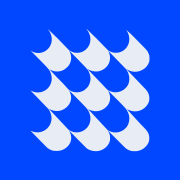
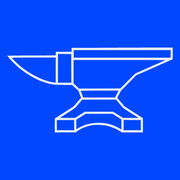
Take the mark from a star to an anvil
The drawing changes; the colour does not. The anvil is inlined as a single
path at `currentColor`, the same way the star was, so it still recolours
across the three grounds the masthead crosses, and the favicons stay in the
signal blue. Only the shape is new.

It is a different shape in one way that matters everywhere. The star's
bounding box was 1402x1122, a shade under 5:4; the anvil's is 1021x524, a
shade under 2:1. Everything that reserved space for the mark sized it by
height and let the width follow, so at a matched height the anvil arrived
half again as wide as the thing it replaced — 117px of it in a masthead row
where the star took 75. That is not a mark any more, it is furniture. So the
mark is set at 0.65 of the height the old one could afford, which is the
height at which it occupies the width the old one did, and the same factor is
applied at every other size: the brand mark on the legal pages, the closing
panel's lockup, the loading screen, the gate page and the social card.

It also leaves the hero. The lockup under the glass pill used to be mark and
wordmark together, but the masthead sits directly above it and already
carries the anvil, so the screen was showing the same drawing twice inside
one viewport height. The lockup is the wordmark alone now, and the narrow
step that used to fit three terms into 320px fits one.

FAVICONS, IN TWO WEIGHTS. The star was a dense solid glyph and the anvil is
[…]

Changed region(s): [[0.0278, 0.1667, 0.9722, 0.8611]]

diff --git a/scripts/social-card.html b/scripts/social-card.html
@@ -94,8 +94,12 @@
       }
 
       .lockup svg {
+        /* The anvil's own ratio (1021x524), so the mark is not squashed to the
+           old drawing's near-square box. 34px is the width the old mark took,
+           which is the footprint this lockup was composed around. */
         width: 34px;
-        height: 27px;
+        height: auto;
+        aspect-ratio: 1021.1 / 524;
         color: var(--blue);
       }
 
@@ -171,8 +175,10 @@
   <body>
     <div class="copy">
       <div class="lockup">
-        <svg viewBox="0 0 1402 1122" aria-hidden="true">
-          <path fill="currentColor" d="M627 50c16 24 19 29 25 45q12 38 0 75c-11 30-37 56-67 66q-34 11-69 0-26-10-38-24A3946 3946 0 0 0 315 49l6 9c25 34 33 75 20 111a108 108 0 0 1-157 59l-8-5 12 12 71 72c63 64 65 67 75 87 22 46 15 96-18 132a115 115 0 0 1-99 33 154 154 0 0 1-41-14l69 71 76 79q18 26 23 57a114 114 0 0 1-163 118c-9-6-15-11 56 61l54 55c20 21 30 29 49 37 15 7 25 8 47 8a117 117 0 0 0 83-32q44-42 30-100c-3-11-5-15-11-26l-3-7 72 74 71 71c24 17 57 25 89 21 46-7 85-40 96-80 2-7 2-11 2-24 0-15 0-17-2-26q-4-16-13-29l-4-8 71 71c38 39 73 73 77 76 9 7 26 15 38 18 10 2 12 3 31 3s21-1 30-3q35-9 56-31 34-31 32-75-1-30-21-56c-6-9-10-13-51-55L951 694c9 5 25 12 37 15a119 119 0 0 0 140-72q6-19 4-38-3-28-17-48c-7-11-11-15-45-50l-64-67-60-63 7 4 15 8c45 21 97 11 134-23q21-21 30-50c2-10 2-38 0-48l-12-29c-9-14-10-16-124-131l-50-46q36 54 20 109c-6 22-23 45-43 58a104 104 0 0 1-59 18c-22 0-38-4-58-16q-10-6-15-13A5108 5108 0 0 0 629 50l-3-2zm-70 244c70 71 76 78 85 94 12 22 19 50 16 73-2 18-10 39-19 52-6 8-22 23-29 28-32 21-71 24-106 9-14-6-21-11-31-23a1385 1385 0 0 0-80-84l-66-70a115 115 0 0 0 109 9c17-8 38-25 49-41a107 107 0 0 0 2-116l-1-3zm285-27 103 106c7 10 18 30 20 40q12 39 1 73c-9 27-32 51-59 63-22 10-50 13-73 7-19-5-37-14-44-22-4-5-81-86-117-122l-31-32-10-11 7 5c22 14 52 20 78 17 17-2 37-10 52-21 15-10 30-28 37-43 14-30 13-67-3-97l-4-7 9 9zM581 639c51 52 57 59 67 82q16 39 7 77a111 111 0 0 1-157 72c-12-6-15-8-25-19l-29-31-121-129q37 23 79 18c38-4 76-32 92-67 13-27 11-60-3-89l-6-11 26 26zm301-12c63 64 65 66 76 90a117 117 0 0 1 2 104 112 112 0 0 1-157 46q-9-5-13-11L638 693a119 119 0 0 0 167-42c17-30 15-71-4-102l-3-6 13 13z" />
+        <svg viewBox="115.9 379 1021.1 524" aria-hidden="true">
+          <g transform="translate(0,1254) scale(0.1,-0.1)" fill="currentColor">
+            <path d="M7680 8739 c-976 -3 -1949 -7 -2162 -8 l-388 -1 0 -120 0 -120 -487 -2 -488 -3 -3 -106 -3 -106 -352 -6 c-194 -4 -725 -8 -1182 -8 -456 -1 -971 -4 -1143 -8 l-313 -6 87 -110 c125 -157 499 -527 674 -667 655 -522 1340 -864 1969 -982 212 -40 314 -46 798 -46 l473 0 194 -181 193 -180 62 -157 c33 -86 70 -183 81 -215 l20 -59 -124 -141 c-68 -78 -170 -197 -227 -265 -102 -121 -107 -125 -271 -230 -159 -101 -426 -273 -818 -526 l-175 -113 -3 -430 -2 -430 650 3 651 3 37 29 c213 166 472 291 747 361 171 43 304 61 510 68 409 13 780 -63 1153 -238 104 -49 156 -78 313 -175 l86 -54 647 0 646 0 0 443 0 442 -73 47 c-39 25 -236 151 -437 278 -201 128 -425 271 -499 319 l-134 86 -206 244 c-113 134 -212 251 -219 262 -15 20 6 66 151 333 l64 118 470 477 470 476 134 59 c248 108 1130 497 1624 716 l490 216 3 362 2 362 -957 -2 c-527 -1 -1757 -5 -2733 -9z m3558 -381 l-3 -233 -2985 0 -2985 0 -3 233 -2 232 2990 0 2990 0 -2 -232z m-6130 -895 l2 -883 -410 0 -410 0 0 885 0 885 408 -2 407 -3 3 -882z m-958 -109 l0 -776 -27 6 c-16 3 -64 10 -108 16 -121 17 -384 83 -531 134 -438 150 -906 406 -1339 729 -231 173 -401 325 -588 525 l-118 127 153 5 c84 3 694 7 1356 8 l1202 2 0 -776z m6758 620 c-7 -6 -230 -108 -393 -179 -223 -97 -786 -346 -1315 -581 l-145 -65 -463 -462 -462 -462 -1265 -3 -1265 -4 -32 27 c-18 15 -97 88 -175 162 l-143 135 0 719 0 719 2832 0 c1557 0 2829 -3 2826 -6z m-2890 -1897 c-2 -7 -50 -101 -108 -210 l-105 -197 -980 0 -980 0 -75 202 c-41 110 -76 205 -78 209 -2 5 509 9 1163 9 941 0 1166 -2 1163 -13z m71 -801 l216 -257 275 -177 c151 -98 359 -231 463 -296 103 -65 187 -122 187 -126 0 -5 -211 -9 -469 -9 l-469 0 -297 189 -298 190 -875 0 -874 0 -302 -189 -301 -190 -360 0 c-198 -1 -406 2 -462 5 l-101 7 56 37 c31 20 185 119 342 220 157 100 338 217 404 259 118 75 119 77 320 310 110 129 211 246 222 260 l22 26 1042 -1 1042 -1 217 -257z m-162 -789 l272 -172 1 -307 c0 -170 -4 -308 -8 -308 -4 0 -12 4 -18 9 -21 22 -248 142 -350 187 -262 114 -482 171 -764 199 -559 56 -1114 -63 -1556 -331 -40 -24 -75 -44 -78 -44 -3 0 -6 130 -6 289 l0 289 188 118 c103 65 232 146 287 181 l100 63 830 0 830 0 272 -173z m-2639 -525 l2 -312 -532 2 -533 3 -3 300 c-1 165 0 305 3 312 3 11 113 13 532 11 l528 -3 3 -313z m4107 3 l0 -310 -527 -3 -528 -2 0 315 0 315 528 -2 527 -3 0 -310z" />
+          </g>
         </svg>
         <span>Florian Beermann &amp; Partners</span>
       </div>

diff --git a/src/components/BrandMark.tsx b/src/components/BrandMark.tsx
@@ -1,0 +1,20 @@
+/* The mark: an anvil, inlined as a single path so it takes its colour from
+   `currentColor` — the masthead crosses three grounds and the mark changes
+   with them. The path is the artwork's own coordinate space; the `viewBox` is
+   its tight bounding box, so the element's box is the drawing and nothing
+   else. Anything that reserves space for it reads the ratio from here. */
+export function BrandMark({ className }: { className?: string }) {
+  return (
+    <svg
+      className={className}
+      viewBox="115.9 379 1021.1 524"
+      xmlns="http://www.w3.org/2000/svg"
+      aria-hidden="true"
+      focusable="false"
+    >
+      <g transform="translate(0,1254) scale(0.1,-0.1)" fill="currentColor">
+        <path d="M7680 8739 c-976 -3 -1949 -7 -2162 -8 l-388 -1 0 -120 0 -120 -487 -2 -488 -3 -3 -106 -3 -106 -352 -6 c-194 -4 -725 -8 -1182 -8 -456 -1 -971 -4 -1143 -8 l-313 -6 87 -110 c125 -157 499 -527 674 -667 655 -522 1340 -864 1969 -982 212 -40 314 -46 798 -46 l473 0 194 -181 193 -180 62 -157 c33 -86 70 -183 81 -215 l20 -59 -124 -141 c-68 -78 -170 -197 -227 -265 -102 -121 -107 -125 -271 -230 -159 -101 -426 -273 -818 -526 l-175 -113 -3 -430 -2 -430 650 3 651 3 37 29 c213 166 472 291 747 361 171 43 304 61 510 68 409 13 780 -63 1153 -238 104 -49 156 -78 313 -175 l86 -54 647 0 646 0 0 443 0 442 -73 47 c-39 25 -236 151 -437 278 -201 128 -425 271 -499 319 l-134 86 -206 244 c-113 134 -212 251 -219 262 -15 20 6 66 151 333 l64 118 470 477 470 476 134 59 c248 108 1130 497 1624 716 l490 216 3 362 2 362 -957 -2 c-527 -1 -1757 -5 -2733 -9z m3558 -381 l-3 -233 -2985 0 -2985 0 -3 233 -2 232 2990 0 2990 0 -2 -232z m-6130 -895 l2 -883 -410 0 -410 0 0 885 0 885 408 -2 407 -3 3 -882z m-958 -109 l0 -776 -27 6 c-16 3 -64 10 -108 16 -121 17 -384 83 -531 134 -438 150 -906 406 -1339 729 -231 173 -401 325 -588 525 l-118 127 153 5 c84 3 694 7 1356 8 l1202 2 0 -776z m6758 620 c-7 -6 -230 -108 -393 -179 -223 -97 -786 -346 -1315 -581 l-145 -65 -463 -462 -462 -462 -1265 -3 -1265 -4 -32 27 c-18 15 -97 88 -175 162 l-143 135 0 719 0 719 2832 0 c1557 0 2829 -3 2826 -6z m-2890 -1897 c-2 -7 -50 -101 -108 -210 l-105 -197 -980 0 -980 0 -75 202 c-41 110 -76 205 -78 209 -2 5 509 9 1163 9 941 0 1166 -2 1163 -13z m71 -801 l216 -257 275 -177 c151 -98 359 -231 463 -296 103 -65 187 -122 187 -126 0 -5 -211 -9 -469 -9 l-469 0 -297 189 -298 190 -875 0 -874 0 -302 -189 -301 -190 -360 0 c-198 -1 -406 2 -462 5 l-101 7 56 37 c31 20 185 119 342 220 157 100 338 217 404 259 118 75 119 77 320 310 110 129 211 246 222 260 l22 26 1042 -1 1042 -1 217 -257z m-162 -789 l272 -172 1 -307 c0 -170 -4 -308 -8 -308 -4 0 -12 4 -18 9 -21 22 -248 142 -350 187 -262 114 -482 171 -764 199 -559 56 -1114 -63 -1556 -331 -40 -24 -75 -44 -78 -44 -3 0 -6 130 -6 289 l0 289 188 118 c103 65 232 146 287 181 l100 63 830 0 830 0 272 -173z m-2639 -525 l2 -312 -532 2 -533 3 -3 300 c-1 165 0 305 3 312 3 11 113 13 532 11 l528 -3 3 -313z m4107 3 l0 -310 -527 -3 -528 -2 0 315 0 315 528 -2 527 -3 0 -310z" />
+      </g>
+    </svg>
+  );
+}

diff --git a/src/pages/hero.css b/src/pages/hero.css
@@ -294,10 +294,15 @@
 }
 
 /* ── The brand lockup ─────────────────────────────────────────────────────
-   Mark and wordmark, centred under the glass pill. Set in Nippo, which appears
+   The wordmark, centred under the glass pill. Set in Nippo, which appears
    nowhere else on the site — the wordmark is a piece of identity rather than
    part of the type system, and giving it its own face is what keeps it from
-   reading as a heading. */
+   reading as a heading.
+
+   The mark used to sit to its left. It is gone from here: the masthead is
+   directly above this and already carries the anvil, so the screen was showing
+   the same drawing twice inside one viewport height. Still a flex row, which
+   costs nothing and keeps the centring honest if anything joins it again. */
 .hero-lockup {
   position: absolute;
   top: calc(var(--masthead-space) + clamp(1.25rem, 3vh, 2.25rem));
@@ -306,7 +311,6 @@
   z-index: 2;
   display: flex;
   align-items: center;
-  gap: clamp(0.7rem, 1.4vw, 1.1rem);
   color: var(--wow-color);
   white-space: nowrap;
   pointer-events: none;
@@ -318,13 +322,6 @@
     0 2px 18px rgb(12 16 24 / 0.4);
 }
 
-.hero-lockup-mark {
-  height: clamp(2.4rem, 4.2vw, 3.6rem);
-  width: auto;
-  aspect-ratio: 1402 / 1122;
-  flex: none;
-}
-
 .hero-lockup-word {
   font-family: var(--wordmark);
   font-size: clamp(1.5rem, 2.6vw, 2.25rem);
@@ -334,16 +331,10 @@
 }
 
 @media (max-width: 30rem) {
-  /* At 320px the lockup ran 4px past the viewport, so the smallest step is
-     sized to fit rather than to a round number. */
-  .hero-lockup {
-    gap: 0.4rem;
-  }
-
-  .hero-lockup-mark {
-    height: 1.9rem;
-  }
-
+  /* One term now, so the budget is simple: the line is the wordmark and
+     nothing else. It used to be three fixed values tuned to fit 320px with a
+     mark and a gap beside it; with the mark gone the wordmark alone measures
+     237px inside 280. */
   .hero-lockup-word {
     font-size: 1.1rem;
   }
@@ -388,9 +379,13 @@
 }
 
 .hero-loader-mark {
-  height: clamp(2.4rem, 4.2vw, 3.6rem);
+  /* 0.65 of the height a near-square mark could carry. The loader is the only
+     place the anvil still stands beside the name: the lockup under the pill
+     dropped it, since the masthead behind that curtain carries the mark
+     already, and here there is no masthead yet. */
+  height: clamp(1.55rem, 2.75vw, 2.35rem);
   width: auto;
-  aspect-ratio: 1402 / 1122;
+  aspect-ratio: 1021.1 / 524;
   flex: none;
 }
 

diff --git a/src/pages/Home.tsx b/src/pages/Home.tsx
@@ -15,7 +15,7 @@ import {
 import { Textarea } from "@/components/ui/textarea";
 import { HeroVideo } from "@/components/HeroVideo";
 import { HeroLoader } from "@/components/HeroLoader";
-import { CircleMark } from "@/components/CircleMark";
+import { BrandMark } from "@/components/BrandMark";
 import { Masthead } from "@/components/Masthead";
 import { setPageMetadata } from "@/lib/metadata";
 import "./Home.css";
@@ -240,12 +240,14 @@ export default function Home() {
             hold={!plateRevealed}
           />
 
-          {/* The brand lockup: mark and wordmark together, under the pill.
+          {/* The brand lockup: the wordmark alone, under the pill. The mark
+              used to sit to its left; the masthead directly above already
+              carries the anvil, so showing it twice within one screen height
+              was saying the same thing twice.
               Presentational — the accessible name for the site already lives on
               the masthead's home link, and repeating it here would announce the
               company twice to a screen reader. */}
           <div className="hero-lockup" aria-hidden="true">
-            <CircleMark className="hero-lockup-mark" />
             <span className="hero-lockup-word">Florian Beermann &amp; Partners</span>
           </div>
 
@@ -722,7 +724,7 @@ export default function Home() {
             on the masthead's home link, and the copyright it now carries is
             given to assistive tech by the line below. */}
         <div className="site-closing-lockup" aria-hidden="true">
-          <CircleMark className="site-closing-mark" />
+          <BrandMark className="site-closing-mark" />
           <span className="site-closing-word">Florian Beermann &amp; Partners</span>
           <span className="site-closing-year">© {new Date().getFullYear()}</span>
         </div>

diff --git a/src/styles/masthead.css b/src/styles/masthead.css
@@ -177,10 +177,9 @@
 /* The mark sits directly on the ground with no pane behind it.
 
    Larger than the reference's 40px, and deliberately. That mark is a dense
-   solid glyph; this one is a twelve-point star built from thin tapering rays
-   with more air inside its box than ink, so at a matched 40px it reads
-   markedly smaller than the thing it is being matched to. Optical size, not
-   measured size. */
+   solid glyph; this one is an anvil drawn in outline, with far more air inside
+   its box than ink, so at a matched 40px it reads markedly smaller than the
+   thing it is being matched to. Optical size, not measured size. */
 .site-masthead .masthead-mark {
   display: inline-flex;
   align-items: center;
@@ -205,13 +204,18 @@
 
 .masthead-mark svg {
   display: block;
-  /* Sized by height: the mark is 1402x1122, so a width-based rule would make
-     it taller than the row. */
-  height: var(--masthead-h);
+  /* Sized by height: the anvil is 1021x524, so a width-based rule would make
+     it far taller than the row. Not the full row height, which is what a
+     near-square mark could afford — at 2:1 that put 117px of anvil in a row
+     where the old drawing took 75px, and the mark stopped being a mark and
+     started being furniture. 0.65 of the row is the height at which the anvil
+     occupies the width the old one did. */
+  height: calc(var(--masthead-h) * 0.65);
   width: auto;
-  aspect-ratio: 1402 / 1122;
-  /* Fifty-two tapering rays, the finest of them under a pixel wide at this
-     size. Letting the rasteriser optimise for speed turns them to mush. */
+  aspect-ratio: 1021.1 / 524;
+  /* The anvil is outline work, not a solid: its lightest strokes land near a
+     pixel at this size. Letting the rasteriser optimise for speed turns them
+     to mush. */
   shape-rendering: geometricPrecision;
 }
 

diff --git a/src/components/LegalPageLayout.tsx b/src/components/LegalPageLayout.tsx
@@ -1,6 +1,6 @@
 import type { ReactNode } from "react";
 import { Link, useLocation } from "react-router-dom";
-import { CircleMark } from "@/components/CircleMark";
+import { BrandMark } from "@/components/BrandMark";
 import "./LegalPageLayout.css";
 
 interface LegalPageLayoutProps {
@@ -28,7 +28,7 @@ export const LegalPageLayout = ({
               the lockup the way the home page does. The link is labelled, so
               the name beside the mark is decoration to assistive tech rather
               than a second reading of the same thing. */}
-          <CircleMark className="site-brand-mark" />
+          <BrandMark className="site-brand-mark" />
           <span className="site-brand-word">Florian Beermann &amp; Partners</span>
         </Link>
         <nav aria-label="Primary navigation">

diff --git a/src/pages/NotFound.tsx b/src/pages/NotFound.tsx
@@ -1,6 +1,6 @@
 import { useEffect } from "react";
 import { Link, useLocation } from "react-router-dom";
-import { CircleMark } from "@/components/CircleMark";
+import { BrandMark } from "@/components/BrandMark";
 import { setPageMetadata } from "@/lib/metadata";
 import "./NotFound.css";
 
@@ -21,7 +21,7 @@ const NotFound = () => {
       <header className="site-header">
         <Link className="site-brand" to="/" aria-label="Florian Beermann &amp; Partners, home">
           {/* Mark and name, as on the legal pages — see LegalPageLayout. */}
-          <CircleMark className="site-brand-mark" />
+          <BrandMark className="site-brand-mark" />
           <span className="site-brand-word">Florian Beermann &amp; Partners</span>
         </Link>
         <nav aria-label="Primary navigation">

diff --git a/src/components/Masthead.tsx b/src/components/Masthead.tsx
@@ -1,5 +1,5 @@
 import { useEffect, useRef, useState } from "react";
-import { CircleMark } from "./CircleMark";
+import { BrandMark } from "./BrandMark";
 import { MobileNav } from "./MobileNav";
 
 /* The masthead, and it now belongs to the page rather than to the hero.
@@ -162,7 +162,7 @@ export function Masthead() {
           the bar — otherwise the only route home would be an unlabelled
           graphic. */}
       <a className="masthead-mark" href="#top" aria-label="Florian Beermann &amp; Partners — home">
-        <CircleMark />
+        <BrandMark />
       </a>
       <nav className="glass masthead-rail" aria-label="Primary navigation">
         <a href="#engagements">Work</a>

diff --git a/index.html b/index.html
@@ -50,7 +50,8 @@
     <meta name="twitter:description" content="I rebuild Customer Success for B2B SaaS companies whose customer base has outgrown the way they serve it: coverage, health scoring and playbooks that fit.">
     <!-- `logo` is the mark at 512. It used to point at logo-lockup.png, a
          plum-world lockup retired everywhere else on the site, so search
-         engines were being handed an identity the site no longer uses. -->
+         engines were being handed an identity the site no longer uses. It is
+         the anvil now, the same drawing the pages inline. -->
     <script type="application/ld+json">
       {
         "@context": "https://schema.org",

diff --git a/src/components/HeroLoader.tsx b/src/components/HeroLoader.tsx
@@ -1,5 +1,5 @@
 import { useEffect, useRef, useState } from "react";
-import { CircleMark } from "@/components/CircleMark";
+import { BrandMark } from "@/components/BrandMark";
 
 /* The loading screen.
  *
@@ -162,7 +162,7 @@ export function HeroLoader({ progress, ready, onLeave }: Props) {
       aria-hidden="true"
     >
       <div className="hero-loader-lockup">
-        <CircleMark className="hero-loader-mark" />
+        <BrandMark className="hero-loader-mark" />
         <span className="hero-loader-word">Florian Beermann &amp; Partners</span>
       </div>
       <div className="hero-loader-rule">

diff --git a/src/styles/shell.css b/src/styles/shell.css
@@ -683,9 +683,9 @@ body::before {
    lockup. `aspect-ratio` from the artwork's own viewBox is what stops the flex
    row crushing it — the failure described above. */
 .site-brand-mark {
-  height: 1.35em;
+  height: 0.88em;
   width: auto;
-  aspect-ratio: 1402 / 1122;
+  aspect-ratio: 1021.1 / 524;
   flex: none;
   color: var(--voltage);
 }
@@ -840,7 +840,7 @@ body::before {
     }
 
     .site-brand-mark {
-      height: 2.2em;
+      height: 1.43em;
     }
   }
 

diff --git a/src/pages/Home.css b/src/pages/Home.css
@@ -1682,9 +1682,9 @@
 }
 
 .site-closing-mark {
-  height: 0.78em;
+  height: 0.51em;
   width: auto;
-  aspect-ratio: 1402 / 1122;
+  aspect-ratio: 1021.1 / 524;
   flex: none;
 }
 
